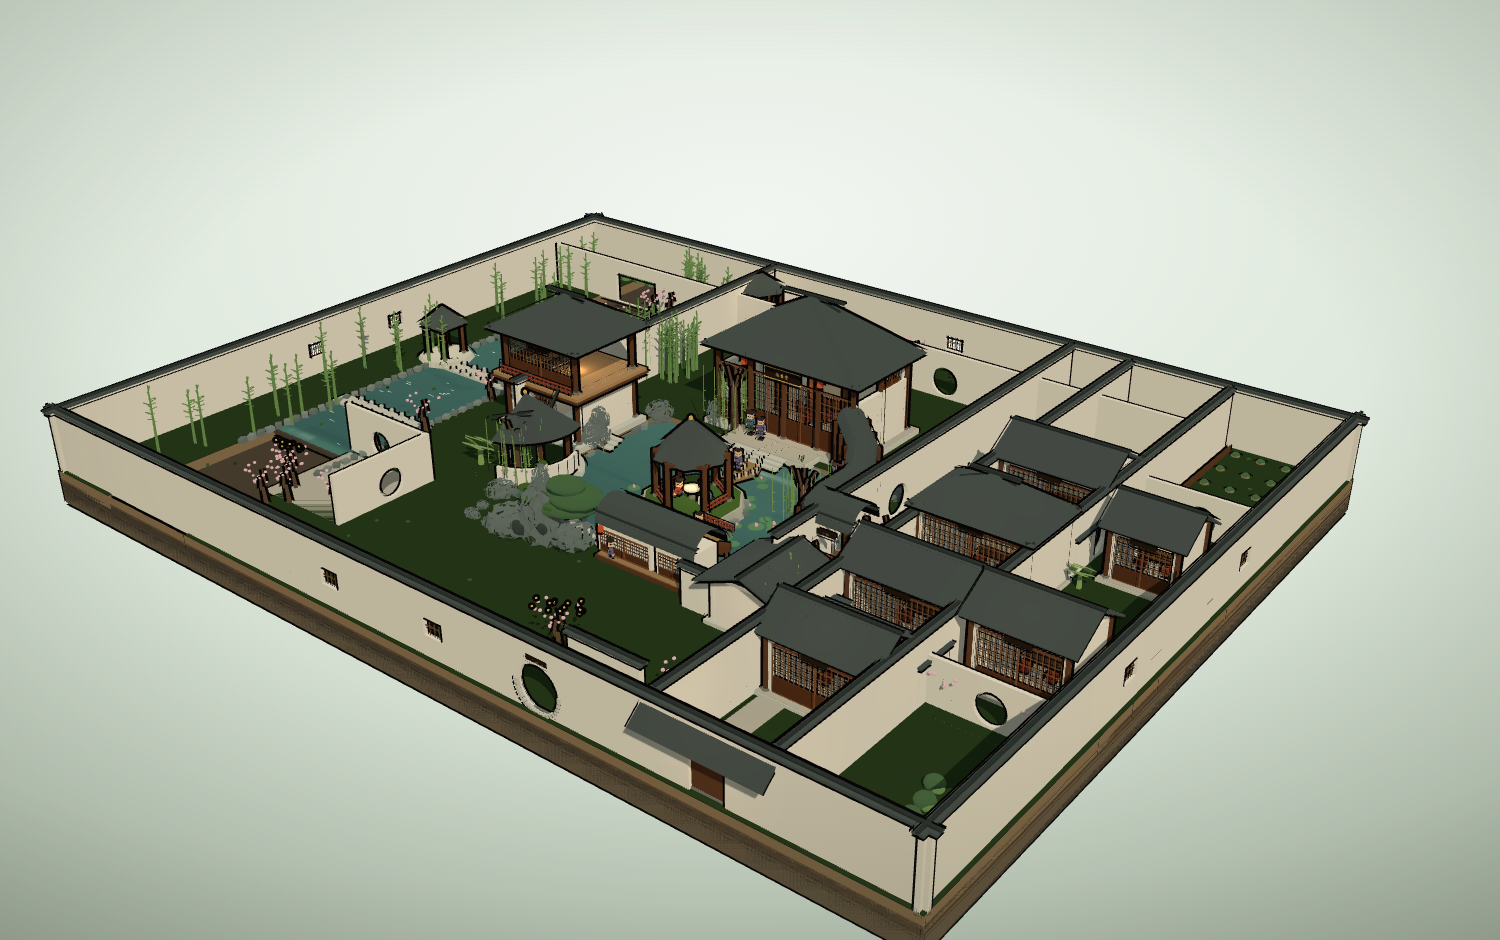
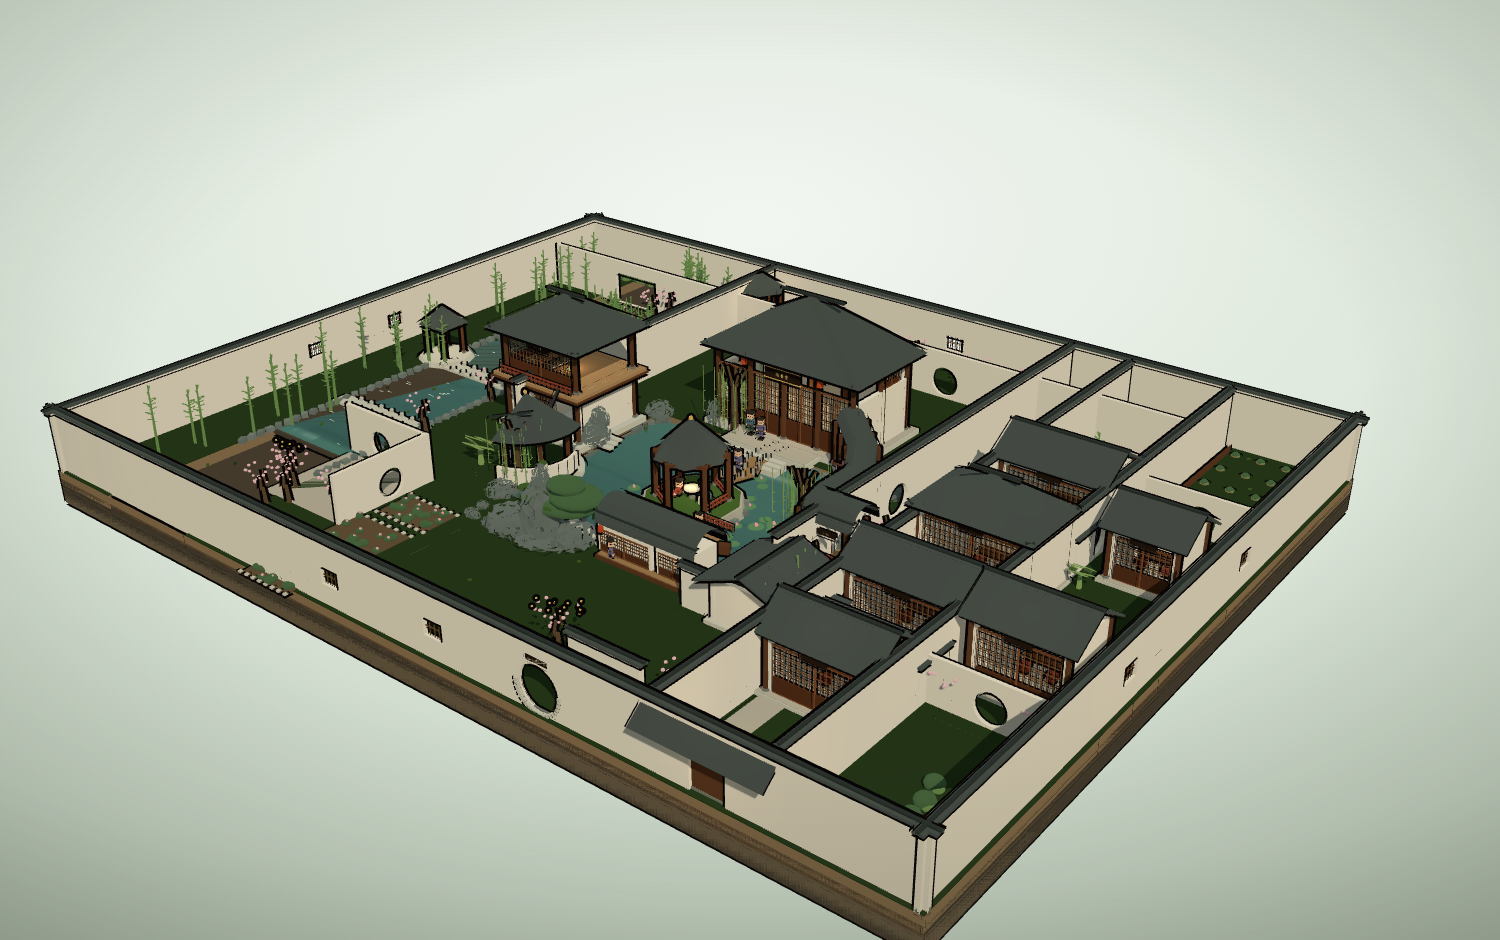
fix(garden): 细节打磨——入水踏步、竹林离墙、格扇屏板、洞穴与屋角收敛

diff --git a/docs/garden.html b/docs/garden.html
@@ -52,8 +52,8 @@ window.PRESET = {
     "gdStoneD": 7830130,
     "gdStoneL": 13158586,
     "gdRock": 6976881,
-    "gdRockL": 8490118,
-    "gdRockD": 3752510,
+    "gdRockL": 7831932,
+    "gdRockD": 5200468,
     "gdPave": 11972768,
     "gdWoodD": 6044196,
     "gdWoodR": 9322286,
@@ -68,7 +68,7 @@ window.PRESET = {
     "gdDoorD": 5451804,
     "gdSignBox": 2365970,
     "gdGold": 14201694,
-    "gdLantern": 13915694,
+    "gdLantern": 12601894,
     "gdScreenP": 14273972,
     "gdSky": 13623526,
     "gdBloom": 6064734,
@@ -17433,7 +17433,7 @@ function gdBankRocks(b) {
       const t = i / n;
       const x = e[0] + (e[2] - e[0]) * t, z = e[1] + (e[3] - e[1]) * t;
       const s = 0.30 + gdR(k * 17 + i * 5.1) * 0.34;
-      b.box(i % 3 ? 'gdRock' : 'gdRockL', s, s * 0.74, s * 1.25,
+      b.box(i % 4 ? 'gdRock' : 'gdRockL', s, s * 0.74, s * 1.25,
         x, GD_WY + s * 0.20, z, 0, gdR(i * 7.3) * 1.2, (gdR(i * 9.1) - 0.5) * 0.18);
     }
   });
@@ -17581,8 +17581,9 @@ function gdYuanxiang(b) {
   b.box('gdStoneL', 7.2, 0.40, 2.0, cx, GD_GY + 0.20, cz + D / 2 + 1.4);
   b.box('gdPave', 7.0, 0.06, 1.9, cx, GD_GY + 0.43, cz + D / 2 + 1.4);
   /* 三级台阶下到池岸 */
+  /* 入水踏步：实心砌到水下，否则三级台阶像悬在水面上 */
   for (let i = 0; i < 3; i++) {
-    b.box('gdStoneL', 4.2, 0.14, 0.46, cx, GD_GY + 0.33 - i * 0.13, cz + D / 2 + 2.65 + i * 0.42);
+    b.box('gdStoneL', 4.2, 0.62, 0.46, cx, GD_GY - 0.10 - i * 0.13, cz + D / 2 + 2.65 + i * 0.42);
   }
   /* 柱网：面宽 5 间 × 进深 3 间；柱高 5.6 米，屋顶才压不扁 */
   const xs = [-W / 2, -W / 4, 0, W / 4, W / 2];
@@ -17602,6 +17603,8 @@ function gdYuanxiang(b) {
     const x0 = -W / 2 + i * W / 4;
     gdScreen(b, cx + x0 + W / 8, FY, cz + D / 2 - 0.06, W / 4 - 0.34, 4.3, 0);
   }
+  /* 长窗后 0.5 米一块绢面屏板：否则从外面看是一排黑洞 */
+  b.box('gdScreenP', W - 1.0, 3.9, 0.06, cx, FY + 2.05, cz + D / 2 - 0.70);
   [-1, 1].forEach(function (s) {
     b.box('gdWall', 0.34, 4.0, D - 0.6, cx + s * W / 2, FY + 2.0, cz);
     gdScreen(b, cx + s * W / 2 + s * 0.05, FY + 4.02, cz - 1.2, 1.9, 1.15, Math.PI / 2);
@@ -17917,20 +17920,21 @@ function gdRockMass(b, cx, cz, w, d, h, seed) {
 }
 
 /* 洞壑：山体正面嵌几个深色凹陷，远看就是「透」的洞 */
-function gdCave(b, x, y, z, r, ry) {
-  b.sph('gdRockD', r, x, y, z, 1, 0.85, 0.55);
-  b.sph('gdRockD', r * 0.55, x + 0.15, y + r * 0.20, z - 0.02, 1, 0.9, 0.5);
+function gdCave(b, x, y, z, r) {
+  /* 洞要「浅」：深色球一大会读成黑洞眼 */
+  b.sph('gdRockD', r * 0.62, x, y, z, 1, 0.80, 0.45);
 }
 function gdHills(b) {
   /* 四块整石：少而大。多点叠加会露内壁，整块变形又会拉成石柱，四块是最稳的折中 */
   const HX = -4.5, cz = 12.6;
-  gdRock(b, HX + 2.4, GD_GY + 1.55, cz, 1.55, 2.55, 1.35, 1);
+  gdRock(b, HX + 2.4, GD_GY + 0.34, cz, 2.30, 0.52, 2.00, 5);
+  gdRock(b, HX + 2.4, GD_GY + 1.62, cz, 1.55, 2.55, 1.35, 1);
   gdRock(b, HX + 0.3, GD_GY + 0.90, cz + 0.7, 1.60, 1.05, 1.45, 2);
   gdRock(b, HX + 4.4, GD_GY + 0.85, cz - 0.5, 1.50, 1.00, 1.40, 3);
   gdRock(b, HX + 2.5, GD_GY + 4.05, cz + 0.1, 0.58, 1.28, 0.52, 4);
   /* 洞壑：深色凹陷贴在石面上，读出「透」 */
-  gdCave(b, HX + 1.5, GD_GY + 1.10, cz + 1.35, 0.58);
-  gdCave(b, HX + 3.4, GD_GY + 1.55, cz + 1.10, 0.40);
+  gdCave(b, HX + 1.5, GD_GY + 1.10, cz + 1.35, 0.38);
+  gdCave(b, HX + 3.4, GD_GY + 1.55, cz + 1.10, 0.26);
   for (let i = 0; i < 10; i++) {
     const a = gdR(i * 3.1) * Math.PI * 2;
     const r = 0.5 + gdR(i * 5.7) * 1.4;
@@ -17959,13 +17963,13 @@ function gdZigBridge(b) {
     const ry = Math.atan2(-dz, dx);
     b.box('gdDeck', len + 0.16, 0.14, 1.25, (x0 + x1) / 2, y, (z0 + z1) / 2, 0, ry, 0);
     /* 低石栏：每隔 0.55 米一根，压在桥面两侧 */
-    const n = Math.max(2, Math.round(len / 0.55));
+    const n = Math.max(2, Math.round(len / 0.92));
     for (let j = 0; j <= n; j++) {
       const t = j / n;
       [-1, 1].forEach(function (s) {
-        b.box('gdStoneL', 0.10, 0.34, 0.10,
-          x0 + dx * t + s * Math.sin(ry) * 0.52, y + 0.24,
-          z0 + dz * t + s * Math.cos(ry) * 0.52);
+        b.box('gdStone', 0.12, 0.42, 0.12,
+          x0 + dx * t + s * Math.sin(ry) * 0.52, y + 0.28,
+          z0 + dz * t + s * Math.cos(ry) * 0.52, 0, ry, 0);
       });
     }
   }
@@ -18034,6 +18038,9 @@ function gdEstate(b) {
   b.box('gdRockL', 0.50, 0.40, 0.50, CX + 1.3, GD_GY + 0.18, -16.4);
   gdBanana(b, X1 - 1.0, -14.4, 0.75);
   gdShrub(b, X0 + 1.2, -16.8, 0.80);
+  gdBamboo(b, X0 + 1.4, -13.2, 0.80);
+  gdBamboo(b, X0 + 2.3, -15.2, 0.74);
+  gdPlum(b, X1 - 1.6, -17.4, 0.70);
   /* 长墙压顶 */
   b.box('gdTile', 0.56, 0.15, GD_Z1 - GD_Z0 - 1.8, 18.0, GD_GY + H + 0.05, 0);
   b.box('gdRidge', 0.18, 0.12, GD_Z1 - GD_Z0 - 1.8, 18.0, GD_GY + H + 0.19, 0);
@@ -18310,9 +18317,24 @@ function gdReed(b, x, z, s) {
   s = s || 1;
   for (let i = 0; i < 4; i++) {
     const dx = (gdR(i * 3.1 + x) - 0.5) * 0.24, dz = (gdR(i * 5.7 + z) - 0.5) * 0.24;
-    const h = (0.75 + gdR(i * 7.3 + x) * 0.65) * s;
-    b.box('gdLeaf3', 0.05, h, 0.05, x + dx, GD_WY + h / 2, z + dz, 0, 0, (gdR(i * 9.1) - 0.5) * 0.28);
-    b.box('gdBark', 0.065, 0.20, 0.065, x + dx, GD_WY + h + 0.09, z + dz);
+    const h = (0.45 + gdR(i * 7.3 + x) * 0.40) * s;
+    b.box('gdLeaf2', 0.045, h, 0.045, x + dx, GD_WY + h / 2, z + dz, 0, 0, (gdR(i * 9.1) - 0.5) * 0.30);
+    if (i === 0) b.box('gdBark', 0.06, 0.16, 0.06, x + dx, GD_WY + h + 0.07, z + dz);
+  }
+}
+
+function gdGardenBed(b, cx, cz, w, d) {
+  b.box('gdSoilD', w, 0.12, d, cx, GD_GY + 0.06, cz);
+  for (let i = 0; i < 20; i++) {
+    const x = cx + (gdR(i * 3.1) - 0.5) * w * 0.92;
+    const z = cz + (gdR(i * 5.7) - 0.5) * d * 0.92;
+    b.sph('gdLeaf2', 0.22 + gdR(i * 7.3) * 0.14, x, GD_GY + 0.24, z, 1.1, 0.7, 1.0);
+    if (i % 2 === 0) b.sph('gdFlower', 0.10, x + 0.10, GD_GY + 0.40, z, 1, 0.9, 1);
+  }
+  /* 边框矮石 */
+  for (let i = 0; i < 8; i++) {
+    b.box('gdStoneL', 0.22, 0.12, 0.22, cx - w / 2 + i * w / 7, GD_GY + 0.14, cz - d / 2);
+    b.box('gdStoneL', 0.22, 0.12, 0.22, cx - w / 2 + i * w / 7, GD_GY + 0.14, cz + d / 2);
   }
 }
 
@@ -18326,17 +18348,17 @@ function gdShrub(b, x, z, s) {
 function gdPlants(b) {
   /* 西北竹林：成片才有「幽」的味道，散点会变盆栽 */
   for (let i = 0; i < 26; i++) {
-    const x = -16.4 + gdR(i * 3.1) * 5.6;
+    const x = -20.8 + gdR(i * 3.1) * 5.4;
     const z = -13.6 + gdR(i * 5.7) * 4.8;
     gdBamboo(b, x, z, 0.85 + gdR(i * 7.3) * 0.35);
   }
   /* 西院竹：填补楼后空地 */
   for (let i = 0; i < 10; i++) {
-    gdBamboo(b, -16.2 + gdR(i * 4.3) * 2.2, -4.0 + gdR(i * 6.1) * 5.6, 0.80 + gdR(i * 8.7) * 0.30);
+    gdBamboo(b, -18.2 + gdR(i * 4.3) * 2.4, -4.0 + gdR(i * 6.1) * 5.6, 0.80 + gdR(i * 8.7) * 0.30);
   }
   /* 东院竹：四丛，靠院墙 */
   for (let i = 0; i < 6; i++) {
-    gdBamboo(b, 14.0 + gdR(i * 3.7) * 2.4, 8.6 + gdR(i * 5.3) * 2.6, 0.75 + gdR(i * 7.9) * 0.30);
+    gdBamboo(b, 14.7 + gdR(i * 3.7) * 2.0, 8.6 + gdR(i * 5.3) * 2.6, 0.75 + gdR(i * 7.9) * 0.30);
   }
   /* 芭蕉两株：扇亭两侧 */
   gdBanana(b, -12.6, 8.0, 1.0);
@@ -18392,13 +18414,18 @@ function gdPlants(b) {
     const len = Math.hypot(e[2] - e[0], e[3] - e[1]);
     const n = Math.max(2, Math.round(len / 2.2));
     for (let i = 0; i <= n; i++) {
-      if ((i + k) % 3) continue;
+      if ((i + k) % 4) continue;
       const t = i / n;
       gdReed(b,
         e[0] + (e[2] - e[0]) * t + (k % 2 ? 0.28 : -0.28),
         e[1] + (e[3] - e[1]) * t + (k % 2 ? -0.28 : 0.28), 0.9);
     }
   });
+  /* 西南花圃与石径：把枇杷园东侧的空草地填掉 */
+  gdGardenBed(b, -11.0, 20.2, 4.8, 5.2);
+  gdGardenBed(b, -11.2, 25.4, 4.2, 2.4);
+  gdGardenBed(b, -10.6, 15.4, 4.4, 2.8);
+  b.box('gdPave', 1.6, 0.07, 10.0, -7.8, GD_GY + 0.035, 20.0);
   /* 南岸石桌石凳：假山脚下可坐可弈 */
   b.cyl('gdStoneL', 0.58, 0.62, 0.11, 12, 7.6, GD_GY + 0.70, 11.2);
   b.cyl('gdStoneD', 0.17, 0.21, 0.68, 10, 7.6, GD_GY + 0.35, 11.2);
@@ -18517,7 +18544,7 @@ function gdLights() {
   const L = [
     [1.4, GD_GY + 3.1, -9.2, 5.2, 8.0],
     [2.0, GD_WY + 2.5, 3.4, 3.4, 5.5],
-    [-11.9, GD_GY + 4.6, -0.6, 4.2, 6.5],
+    [-12.4, GD_GY + 4.4, -0.6, 2.6, 5.5],
     [14.6, GD_GY + 2.2, 11.6, 3.0, 5.0],
     [6.0, GD_GY + 2.6, 2.0, 3.2, 6.0],
     [21.7, GD_GY + 3.2, 0.0, 4.0, 6.0],

diff --git a/src/scene.js b/src/scene.js
@@ -17290,7 +17290,7 @@ function gdBankRocks(b) {
       const t = i / n;
       const x = e[0] + (e[2] - e[0]) * t, z = e[1] + (e[3] - e[1]) * t;
       const s = 0.30 + gdR(k * 17 + i * 5.1) * 0.34;
-      b.box(i % 3 ? 'gdRock' : 'gdRockL', s, s * 0.74, s * 1.25,
+      b.box(i % 4 ? 'gdRock' : 'gdRockL', s, s * 0.74, s * 1.25,
         x, GD_WY + s * 0.20, z, 0, gdR(i * 7.3) * 1.2, (gdR(i * 9.1) - 0.5) * 0.18);
     }
   });
@@ -17438,8 +17438,9 @@ function gdYuanxiang(b) {
   b.box('gdStoneL', 7.2, 0.40, 2.0, cx, GD_GY + 0.20, cz + D / 2 + 1.4);
   b.box('gdPave', 7.0, 0.06, 1.9, cx, GD_GY + 0.43, cz + D / 2 + 1.4);
   /* 三级台阶下到池岸 */
+  /* 入水踏步：实心砌到水下，否则三级台阶像悬在水面上 */
   for (let i = 0; i < 3; i++) {
-    b.box('gdStoneL', 4.2, 0.14, 0.46, cx, GD_GY + 0.33 - i * 0.13, cz + D / 2 + 2.65 + i * 0.42);
+    b.box('gdStoneL', 4.2, 0.62, 0.46, cx, GD_GY - 0.10 - i * 0.13, cz + D / 2 + 2.65 + i * 0.42);
   }
   /* 柱网：面宽 5 间 × 进深 3 间；柱高 5.6 米，屋顶才压不扁 */
   const xs = [-W / 2, -W / 4, 0, W / 4, W / 2];
@@ -17459,6 +17460,8 @@ function gdYuanxiang(b) {
     const x0 = -W / 2 + i * W / 4;
     gdScreen(b, cx + x0 + W / 8, FY, cz + D / 2 - 0.06, W / 4 - 0.34, 4.3, 0);
   }
+  /* 长窗后 0.5 米一块绢面屏板：否则从外面看是一排黑洞 */
+  b.box('gdScreenP', W - 1.0, 3.9, 0.06, cx, FY + 2.05, cz + D / 2 - 0.70);
   [-1, 1].forEach(function (s) {
     b.box('gdWall', 0.34, 4.0, D - 0.6, cx + s * W / 2, FY + 2.0, cz);
     gdScreen(b, cx + s * W / 2 + s * 0.05, FY + 4.02, cz - 1.2, 1.9, 1.15, Math.PI / 2);
@@ -17774,20 +17777,21 @@ function gdRockMass(b, cx, cz, w, d, h, seed) {
 }
 
 /* 洞壑：山体正面嵌几个深色凹陷，远看就是「透」的洞 */
-function gdCave(b, x, y, z, r, ry) {
-  b.sph('gdRockD', r, x, y, z, 1, 0.85, 0.55);
-  b.sph('gdRockD', r * 0.55, x + 0.15, y + r * 0.20, z - 0.02, 1, 0.9, 0.5);
+function gdCave(b, x, y, z, r) {
+  /* 洞要「浅」：深色球一大会读成黑洞眼 */
+  b.sph('gdRockD', r * 0.62, x, y, z, 1, 0.80, 0.45);
 }
 function gdHills(b) {
   /* 四块整石：少而大。多点叠加会露内壁，整块变形又会拉成石柱，四块是最稳的折中 */
   const HX = -4.5, cz = 12.6;
-  gdRock(b, HX + 2.4, GD_GY + 1.55, cz, 1.55, 2.55, 1.35, 1);
+  gdRock(b, HX + 2.4, GD_GY + 0.34, cz, 2.30, 0.52, 2.00, 5);
+  gdRock(b, HX + 2.4, GD_GY + 1.62, cz, 1.55, 2.55, 1.35, 1);
   gdRock(b, HX + 0.3, GD_GY + 0.90, cz + 0.7, 1.60, 1.05, 1.45, 2);
   gdRock(b, HX + 4.4, GD_GY + 0.85, cz - 0.5, 1.50, 1.00, 1.40, 3);
   gdRock(b, HX + 2.5, GD_GY + 4.05, cz + 0.1, 0.58, 1.28, 0.52, 4);
   /* 洞壑：深色凹陷贴在石面上，读出「透」 */
-  gdCave(b, HX + 1.5, GD_GY + 1.10, cz + 1.35, 0.58);
-  gdCave(b, HX + 3.4, GD_GY + 1.55, cz + 1.10, 0.40);
+  gdCave(b, HX + 1.5, GD_GY + 1.10, cz + 1.35, 0.38);
+  gdCave(b, HX + 3.4, GD_GY + 1.55, cz + 1.10, 0.26);
   for (let i = 0; i < 10; i++) {
     const a = gdR(i * 3.1) * Math.PI * 2;
     const r = 0.5 + gdR(i * 5.7) * 1.4;
@@ -17816,13 +17820,13 @@ function gdZigBridge(b) {
     const ry = Math.atan2(-dz, dx);
     b.box('gdDeck', len + 0.16, 0.14, 1.25, (x0 + x1) / 2, y, (z0 + z1) / 2, 0, ry, 0);
     /* 低石栏：每隔 0.55 米一根，压在桥面两侧 */
-    const n = Math.max(2, Math.round(len / 0.55));
+    const n = Math.max(2, Math.round(len / 0.92));
     for (let j = 0; j <= n; j++) {
       const t = j / n;
       [-1, 1].forEach(function (s) {
-        b.box('gdStoneL', 0.10, 0.34, 0.10,
-          x0 + dx * t + s * Math.sin(ry) * 0.52, y + 0.24,
-          z0 + dz * t + s * Math.cos(ry) * 0.52);
+        b.box('gdStone', 0.12, 0.42, 0.12,
+          x0 + dx * t + s * Math.sin(ry) * 0.52, y + 0.28,
+          z0 + dz * t + s * Math.cos(ry) * 0.52, 0, ry, 0);
       });
     }
   }
@@ -17891,6 +17895,9 @@ function gdEstate(b) {
   b.box('gdRockL', 0.50, 0.40, 0.50, CX + 1.3, GD_GY + 0.18, -16.4);
   gdBanana(b, X1 - 1.0, -14.4, 0.75);
   gdShrub(b, X0 + 1.2, -16.8, 0.80);
+  gdBamboo(b, X0 + 1.4, -13.2, 0.80);
+  gdBamboo(b, X0 + 2.3, -15.2, 0.74);
+  gdPlum(b, X1 - 1.6, -17.4, 0.70);
   /* 长墙压顶 */
   b.box('gdTile', 0.56, 0.15, GD_Z1 - GD_Z0 - 1.8, 18.0, GD_GY + H + 0.05, 0);
   b.box('gdRidge', 0.18, 0.12, GD_Z1 - GD_Z0 - 1.8, 18.0, GD_GY + H + 0.19, 0);
@@ -18167,9 +18174,24 @@ function gdReed(b, x, z, s) {
   s = s || 1;
   for (let i = 0; i < 4; i++) {
     const dx = (gdR(i * 3.1 + x) - 0.5) * 0.24, dz = (gdR(i * 5.7 + z) - 0.5) * 0.24;
-    const h = (0.75 + gdR(i * 7.3 + x) * 0.65) * s;
-    b.box('gdLeaf3', 0.05, h, 0.05, x + dx, GD_WY + h / 2, z + dz, 0, 0, (gdR(i * 9.1) - 0.5) * 0.28);
-    b.box('gdBark', 0.065, 0.20, 0.065, x + dx, GD_WY + h + 0.09, z + dz);
+    const h = (0.45 + gdR(i * 7.3 + x) * 0.40) * s;
+    b.box('gdLeaf2', 0.045, h, 0.045, x + dx, GD_WY + h / 2, z + dz, 0, 0, (gdR(i * 9.1) - 0.5) * 0.30);
+    if (i === 0) b.box('gdBark', 0.06, 0.16, 0.06, x + dx, GD_WY + h + 0.07, z + dz);
+  }
+}
+
+function gdGardenBed(b, cx, cz, w, d) {
+  b.box('gdSoilD', w, 0.12, d, cx, GD_GY + 0.06, cz);
+  for (let i = 0; i < 20; i++) {
+    const x = cx + (gdR(i * 3.1) - 0.5) * w * 0.92;
+    const z = cz + (gdR(i * 5.7) - 0.5) * d * 0.92;
+    b.sph('gdLeaf2', 0.22 + gdR(i * 7.3) * 0.14, x, GD_GY + 0.24, z, 1.1, 0.7, 1.0);
+    if (i % 2 === 0) b.sph('gdFlower', 0.10, x + 0.10, GD_GY + 0.40, z, 1, 0.9, 1);
+  }
+  /* 边框矮石 */
+  for (let i = 0; i < 8; i++) {
+    b.box('gdStoneL', 0.22, 0.12, 0.22, cx - w / 2 + i * w / 7, GD_GY + 0.14, cz - d / 2);
+    b.box('gdStoneL', 0.22, 0.12, 0.22, cx - w / 2 + i * w / 7, GD_GY + 0.14, cz + d / 2);
   }
 }
 
@@ -18183,17 +18205,17 @@ function gdShrub(b, x, z, s) {
 function gdPlants(b) {
   /* 西北竹林：成片才有「幽」的味道，散点会变盆栽 */
   for (let i = 0; i < 26; i++) {
-    const x = -16.4 + gdR(i * 3.1) * 5.6;
+    const x = -20.8 + gdR(i * 3.1) * 5.4;
     const z = -13.6 + gdR(i * 5.7) * 4.8;
     gdBamboo(b, x, z, 0.85 + gdR(i * 7.3) * 0.35);
   }
   /* 西院竹：填补楼后空地 */
   for (let i = 0; i < 10; i++) {
-    gdBamboo(b, -16.2 + gdR(i * 4.3) * 2.2, -4.0 + gdR(i * 6.1) * 5.6, 0.80 + gdR(i * 8.7) * 0.30);
+    gdBamboo(b, -18.2 + gdR(i * 4.3) * 2.4, -4.0 + gdR(i * 6.1) * 5.6, 0.80 + gdR(i * 8.7) * 0.30);
   }
   /* 东院竹：四丛，靠院墙 */
   for (let i = 0; i < 6; i++) {
-    gdBamboo(b, 14.0 + gdR(i * 3.7) * 2.4, 8.6 + gdR(i * 5.3) * 2.6, 0.75 + gdR(i * 7.9) * 0.30);
+    gdBamboo(b, 14.7 + gdR(i * 3.7) * 2.0, 8.6 + gdR(i * 5.3) * 2.6, 0.75 + gdR(i * 7.9) * 0.30);
   }
   /* 芭蕉两株：扇亭两侧 */
   gdBanana(b, -12.6, 8.0, 1.0);
@@ -18249,13 +18271,18 @@ function gdPlants(b) {
     const len = Math.hypot(e[2] - e[0], e[3] - e[1]);
     const n = Math.max(2, Math.round(len / 2.2));
     for (let i = 0; i <= n; i++) {
-      if ((i + k) % 3) continue;
+      if ((i + k) % 4) continue;
       const t = i / n;
       gdReed(b,
         e[0] + (e[2] - e[0]) * t + (k % 2 ? 0.28 : -0.28),
         e[1] + (e[3] - e[1]) * t + (k % 2 ? -0.28 : 0.28), 0.9);
     }
   });
+  /* 西南花圃与石径：把枇杷园东侧的空草地填掉 */
+  gdGardenBed(b, -11.0, 20.2, 4.8, 5.2);
+  gdGardenBed(b, -11.2, 25.4, 4.2, 2.4);
+  gdGardenBed(b, -10.6, 15.4, 4.4, 2.8);
+  b.box('gdPave', 1.6, 0.07, 10.0, -7.8, GD_GY + 0.035, 20.0);
   /* 南岸石桌石凳：假山脚下可坐可弈 */
   b.cyl('gdStoneL', 0.58, 0.62, 0.11, 12, 7.6, GD_GY + 0.70, 11.2);
   b.cyl('gdStoneD', 0.17, 0.21, 0.68, 10, 7.6, GD_GY + 0.35, 11.2);
@@ -18374,7 +18401,7 @@ function gdLights() {
   const L = [
     [1.4, GD_GY + 3.1, -9.2, 5.2, 8.0],
     [2.0, GD_WY + 2.5, 3.4, 3.4, 5.5],
-    [-11.9, GD_GY + 4.6, -0.6, 4.2, 6.5],
+    [-12.4, GD_GY + 4.4, -0.6, 2.6, 5.5],
     [14.6, GD_GY + 2.2, 11.6, 3.0, 5.0],
     [6.0, GD_GY + 2.6, 2.0, 3.2, 6.0],
     [21.7, GD_GY + 3.2, 0.0, 4.0, 6.0],

diff --git a/src/presets.js b/src/presets.js
@@ -1320,7 +1320,7 @@
         gdSoil: 0x8d7556, gdSoilD: 0x63513c,
         gdGrass: 0x273a1c, gdGrassL: 0x41602a,
         gdStone: 0xa8a89c, gdStoneD: 0x777a72, gdStoneL: 0xc8c8ba,
-        gdRock: 0x6a7571, gdRockL: 0x818c86, gdRockD: 0x39423e,
+        gdRock: 0x6a7571, gdRockL: 0x77817c, gdRockD: 0x4f5a54,
         gdPave: 0xb6b0a0,
         /* 木作：栗色梁柱 + 朱漆栏杆 */
         gdWoodD: 0x5c3a24, gdWoodR: 0x8e3f2e,
@@ -1329,7 +1329,7 @@
         gdWall: 0xe8e2d4, gdTile: 0x4a5350, gdTileD: 0x333b39, gdRidge: 0x2e3533,
         /* 门窗 / 匾 / 灯 / 屏 */
         gdLattice: 0x6b4a2e, gdDoor: 0x7a4a2c, gdDoorD: 0x53301c,
-        gdSignBox: 0x241a12, gdGold: 0xd8b35e, gdLantern: 0xd4562e,
+        gdSignBox: 0x241a12, gdGold: 0xd8b35e, gdLantern: 0xc04a26,
         gdScreenP: 0xd9cdb4, gdSky: 0xcfe0e6,
         /* 水 / 荷 */
         gdBloom: 0x5c8a5e, gdFlower: 0xe8a6b8, gdWaterD: 0x4c7d75, gdFoam: 0xeef9f3,

diff --git a/README.md b/README.md
@@ -435,7 +435,7 @@ CT_ANIM.push(function (t) {
 - **太湖石不能带描边**。顶点扰动的二十面体每个面都生成反向外壳，叠在一起就是碎玻璃；
   石头进 `noOutline`、扰动收到 0.86~1.12、细分 2，才是整块石头。
 
-定稿 107 mesh / 259576 三角，`magenta:[] / errors:[]`；19 套全量回归全绿。
+定稿 107 mesh / 280372 三角，`magenta:[] / errors:[]`；19 套全量回归全绿。
 
 ### 人物：刻意几何化的积木人
 
